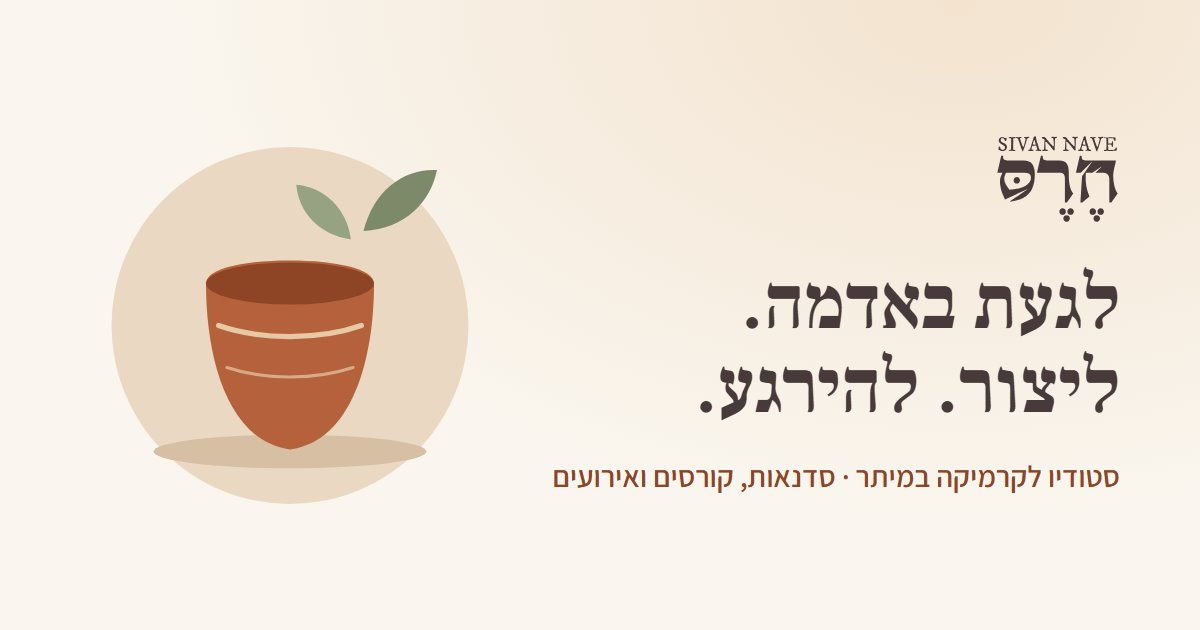
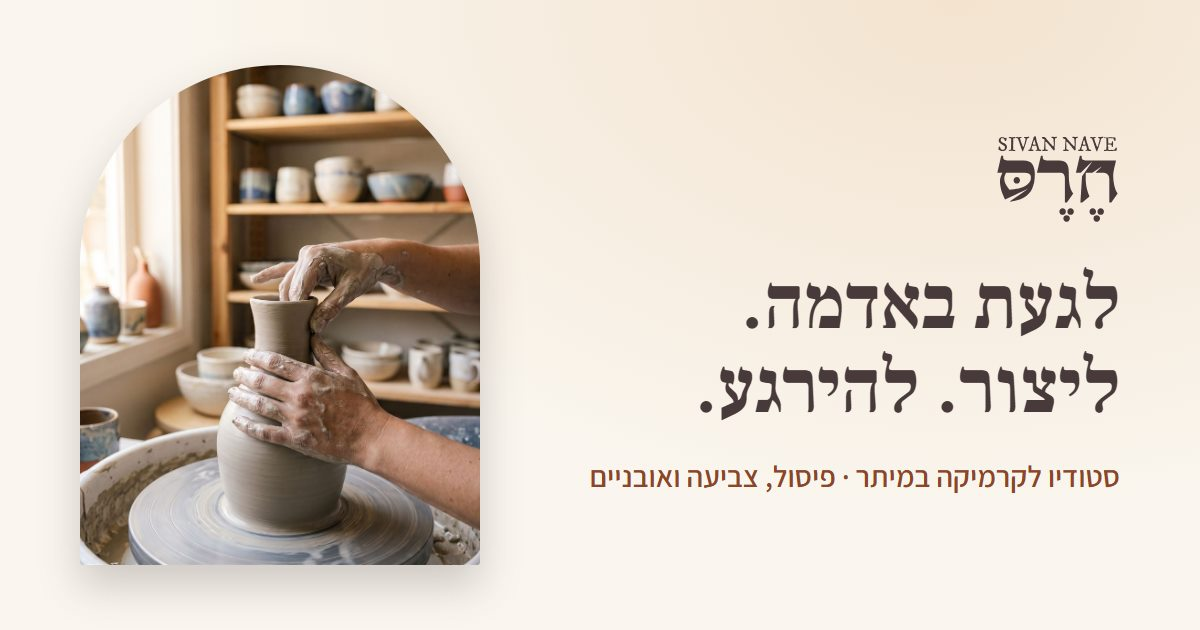
Real work in the gallery, photo hero and texts based on Sivan's Instagram
- Hero: studio photo on the wheel in an arch frame
- Gallery: her real pieces (hamsas, mugs, dog figurine, wheel bowl, flower plate, painting workshop)
  recreated as clean product shots with Google AI Studio from her Instagram posts
- Texts: sculpting and painting studio, wheel work, sculpt and paint in one session
- Removed the second Instagram account, the profile no longer exists
- Images are plain <img> now (no 404 probing, no flash of drawings)
- Share image uses the new hero photo

Changed region(s): [[0.0617, 0.0905, 0.4008, 0.9349], [0.4625, 0.7238, 0.7092, 0.7841]]

diff --git a/index.html b/index.html
@@ -4,7 +4,7 @@
 <meta charset="utf-8">
 <meta name="viewport" content="width=device-width, initial-scale=1">
 <title>סיוון נווה | סטודיו לקרמיקה במיתר</title>
-<meta name="description" content="סטודיו לקרמיקה של סיוון נווה במיתר: סדנאות למתחילים, קורסים מעמיקים, ימי הולדת וגיבוש. לגעת באדמה, ליצור, להירגע.">
+<meta name="description" content="סטודיו לקרמיקה של סיוון נווה במיתר: סדנאות פיסול וצביעה למתחילים, אובניים, קורסים מעמיקים, ימי הולדת וגיבוש. לגעת באדמה, ליצור, להירגע.">
 <meta property="og:title" content="סיוון נווה | סטודיו לקרמיקה במיתר">
 <meta property="og:description" content="סדנאות, קורסים ואירועים בחומר. לגעת באדמה, ליצור, להירגע.">
 <meta property="og:locale" content="he_IL">
@@ -29,7 +29,7 @@
   "description": "סטודיו לקרמיקה במיתר: סדנאות למתחילים, קורסים מעמיקים, ימי הולדת וגיבוש.",
   "telephone": "+972-50-980-9049",
   "address": { "@type": "PostalAddress", "streetAddress": "צקלג 13", "addressLocality": "מיתר", "addressCountry": "IL" },
-  "sameAs": ["https://www.instagram.com/clay_by_sivan/", "https://www.instagram.com/ceramics.by.sivan.nave/"]
+  "sameAs": ["https://www.instagram.com/clay_by_sivan/"]
 }
 </script>
 <script type="application/ld+json">
@@ -108,25 +108,16 @@
   <section class="hero">
     <div class="wrap hero-grid">
       <div>
-        <p class="eyebrow">סטודיו לפיסול וציור בחומר · מיתר</p>
+        <p class="eyebrow">סטודיו לפיסול וצביעה בחומר · מיתר</p>
         <h1>לגעת באדמה.<br>ליצור. להירגע.</h1>
-        <p class="lead">בסטודיו הקטן שלי במיתר אפשר לפגוש את החומר בפעם הראשונה, להעמיק בטכניקות, או לחגוג יחד ולצאת עם כלי שעשיתם בעצמכם.</p>
+        <p class="lead">בסטודיו שלי במיתר מפסלים, צובעים ועובדים על האובניים. אפשר לפגוש את החומר בפעם הראשונה, להעמיק בטכניקות, או לחגוג יחד ולצאת עם כלי שעשיתם בעצמכם.</p>
         <div class="actions">
           <a class="btn" data-wa="היי סיוון, אשמח לקבוע סדנה בסטודיו" href="#contact">לקביעת סדנה</a>
           <a class="btn btn-ghost" href="#workshops">מה יש בסטודיו</a>
         </div>
       </div>
-      <figure class="hero-art photo-slot" data-photo="images/hero.jpg" role="img" aria-label="כלי קרמיקה בעבודת יד">
-        <svg viewBox="0 0 400 400" role="img" aria-hidden="true">
-          <circle cx="200" cy="210" r="170" fill="#ead8c3"/>
-          <ellipse cx="200" cy="330" rx="130" ry="16" fill="#d7bfa4"/>
-          <path d="M120 170c0-14 36-22 80-22s80 8 80 22c0 70-20 150-80 158-60-8-80-88-80-158z" fill="#b5623c"/>
-          <ellipse cx="200" cy="170" rx="80" ry="20" fill="#8e4526"/>
-          <path d="M132 210c40 14 96 14 136 0" stroke="#e8c9a6" stroke-width="5" fill="none" stroke-linecap="round"/>
-          <path d="M140 250c36 12 84 12 120 0" stroke="#e8c9a6" stroke-width="3" fill="none" stroke-linecap="round" opacity=".7"/>
-          <path d="M270 120c10-40 40-60 70-58-6 30-30 56-70 58z" fill="#7d8a6a"/>
-          <path d="M258 128c-4-30-26-50-52-52 2 26 22 48 52 52z" fill="#96a383"/>
-        </svg>
+      <figure class="hero-art">
+        <img src="images/hero.jpg" alt="ידיים מעצבות כד על האובניים בסטודיו" width="880" height="1093" fetchpriority="high">
       </figure>
     </div>
   </section>
@@ -139,8 +130,8 @@
       <div>
         <p class="eyebrow">נעים להכיר</p>
         <h2>אני סיוון</h2>
-        <p>אמנית וקדרית, יוצרת מחומר בסטודיו לפיסול וציור במיתר. אני אוהבת את מה שקורה כשהידיים נוגעות באדמה: הראש משתחרר, הזמן מאט, ומשהו חדש מקבל צורה.</p>
-        <p>הטבע, הצמחים ובעלי החיים שמסביבי נכנסים לכל כלי שאני יוצרת: קערות, ספלים, כדים ועציצים לצמחים ולקקטוסים. בסטודיו אני מלמדת את מה שאני הכי אוהבת, בקצב של כל אחד ואחת, בלי צורך בניסיון קודם.</p>
+        <p>אמנית וקדרית, יוצרת מחימר בסטודיו לפיסול וצביעה במיתר. אני אוהבת את מה שקורה כשהידיים נוגעות באדמה: הראש משתחרר, הזמן מאט, ומשהו חדש מקבל צורה.</p>
+        <p>הטבע, הצמחים ובעלי החיים שמסביבי נכנסים לכל מה שאני יוצרת: קערות וספלים מהאובניים, כדים ועציצים, צלחות בצורת פרחים, חמסות עם הטבעות עלים ופסלונים של בעלי חיים. בסטודיו אני מלמדת את מה שאני הכי אוהבת, בקצב של כל אחד ואחת, בלי צורך בניסיון קודם.</p>
         <p class="sign">מחכה לראות אתכם בסטודיו,<br><b>סיוון</b></p>
       </div>
     </div>
@@ -154,7 +145,7 @@
         <article id="workshops" class="card">
           <svg class="card-icon" viewBox="0 0 64 64" aria-hidden="true"><path d="M14 26h36c0 16-8 26-18 26S14 42 14 26z" fill="#b5623c"/><ellipse cx="32" cy="26" rx="18" ry="5" fill="#8e4526"/></svg>
           <h3>סדנה למתחילים</h3>
-          <p>היכרות נעימה ורגועה עם עולם החומר. לומדים טכניקות בסיס של עבודה בידיים, יוצרים כלי ראשון ויוצאים עם הרבה סיפוק.</p>
+          <p>היכרות נעימה ורגועה עם עולם החומר. מפסלים וצובעים באותו מפגש, מנסים את האובניים ויוצאים עם כלי ראשון ועם הרבה סיפוק.</p>
           <ul>
             <li>בלי צורך בניסיון קודם</li>
             <li>כל החומרים והכלים כלולים</li>
@@ -168,6 +159,7 @@
           <h3>קורס מעמיק</h3>
           <p>לימוד מקצועי ויסודי לאורך מספר מפגשים, עם ליווי אישי לכל משתתף ומשתתפת.</p>
           <ul>
+            <li>עבודה על האובניים</li>
             <li>בנייה בידיים ופיסול מתקדם</li>
             <li>עבודה עם זיגוגים</li>
             <li>תהליכי שריפה בתנור</li>
@@ -195,14 +187,14 @@
     <div class="wrap">
       <p class="eyebrow center">מהסטודיו</p>
       <h2 class="center">עבודות בעבודת יד</h2>
-      <p class="center muted">קערות, ספלים, כדים ועציצים. כל כלי יחיד במינו.</p>
+      <p class="center muted">כלים, חמסות ופסלונים שנוצרו בסטודיו. כל פריט יחיד במינו.</p>
       <div class="grid">
-        <figure class="tile photo-slot" data-photo="images/work-1.jpg"><svg viewBox="0 0 200 200" aria-hidden="true"><rect width="200" height="200" fill="#efe2d1"/><path d="M40 90h120c0 50-26 76-60 76S40 140 40 90z" fill="#b5623c"/><ellipse cx="100" cy="90" rx="60" ry="14" fill="#8e4526"/></svg><figcaption>קערה</figcaption></figure>
-        <figure class="tile photo-slot" data-photo="images/work-2.jpg"><svg viewBox="0 0 200 200" aria-hidden="true"><rect width="200" height="200" fill="#e7dccb"/><path d="M62 70h64v70c0 16-14 26-32 26s-32-10-32-26z" fill="#7d8a6a"/><path d="M126 88c24 0 24 40 0 40" stroke="#5f6b50" stroke-width="8" fill="none"/></svg><figcaption>ספל</figcaption></figure>
-        <figure class="tile photo-slot" data-photo="images/work-3.jpg"><svg viewBox="0 0 200 200" aria-hidden="true"><rect width="200" height="200" fill="#f1e6d6"/><path d="M84 40h32v20c24 12 34 34 34 56 0 30-22 50-50 50s-50-20-50-50c0-22 10-44 34-56z" fill="#c98a63"/><path d="M60 120c26 10 54 10 80 0" stroke="#f4e9da" stroke-width="4" fill="none"/></svg><figcaption>כד</figcaption></figure>
-        <figure class="tile photo-slot" data-photo="images/work-4.jpg"><svg viewBox="0 0 200 200" aria-hidden="true"><rect width="200" height="200" fill="#e9dccb"/><path d="M56 110h88l-10 56H66z" fill="#b5623c"/><path d="M100 110V60M100 80c-16-6-26-18-26-30 16 2 26 12 26 30zM100 72c14-8 24-20 24-32-14 4-24 16-24 32z" stroke="#5f6b50" stroke-width="6" fill="#7d8a6a"/></svg><figcaption>עציץ לקקטוס</figcaption></figure>
-        <figure class="tile photo-slot" data-photo="images/work-5.jpg"><svg viewBox="0 0 200 200" aria-hidden="true"><rect width="200" height="200" fill="#efe2d1"/><ellipse cx="100" cy="120" rx="70" ry="30" fill="#8e4526"/><ellipse cx="100" cy="112" rx="64" ry="22" fill="#d9a77f"/></svg><figcaption>צלחת</figcaption></figure>
-        <figure class="tile photo-slot" data-photo="images/work-6.jpg"><svg viewBox="0 0 200 200" aria-hidden="true"><rect width="200" height="200" fill="#e7dccb"/><rect x="92" y="150" width="16" height="30" fill="#6d625a"/><ellipse cx="100" cy="150" rx="74" ry="14" fill="#8e4526"/><ellipse cx="100" cy="146" rx="74" ry="14" fill="#c98a63"/><path d="M76 146c-6-20 0-44 14-56h20c14 12 20 36 14 56z" fill="#b5623c"/><ellipse cx="100" cy="90" rx="10" ry="3" fill="#8e4526"/><path d="M40 112c14-10 30-10 38 2M160 112c-14-10-30-10-38 2" stroke="#d9a77f" stroke-width="12" fill="none" stroke-linecap="round"/></svg><figcaption>סדנה בפעולה</figcaption></figure>
+        <figure class="tile"><img src="images/work-1.jpg" alt="חמסות עם הטבעת עלים" width="720" height="720" loading="lazy"><figcaption>חמסות עם הטבעת עלים</figcaption></figure>
+        <figure class="tile"><img src="images/work-2.jpg" alt="ספלים בזיגוג עבודת יד" width="720" height="720" loading="lazy"><figcaption>ספלים בזיגוג עבודת יד</figcaption></figure>
+        <figure class="tile"><img src="images/work-3.jpg" alt="פסלון כלב" width="720" height="720" loading="lazy"><figcaption>פסלון כלב</figcaption></figure>
+        <figure class="tile"><img src="images/work-4.jpg" alt="קערה מהאובניים" width="720" height="720" loading="lazy"><figcaption>קערה מהאובניים</figcaption></figure>
+        <figure class="tile"><img src="images/work-5.jpg" alt="צלחת פרח" width="720" height="720" loading="lazy"><figcaption>צלחת פרח</figcaption></figure>
+        <figure class="tile"><img src="images/work-6.jpg" alt="סדנת צביעה" width="720" height="720" loading="lazy"><figcaption>סדנת צביעה</figcaption></figure>
       </div>
       <p class="center"><a class="text-link" href="https://www.instagram.com/clay_by_sivan/" target="_blank" rel="noopener">עוד עבודות באינסטגרם <bdi dir="ltr">@clay_by_sivan</bdi></a></p>
     </div>
@@ -235,7 +227,6 @@
         <li><span>ניווט</span><a href="https://waze.com/ul?q=%D7%A6%D7%A7%D7%9C%D7%92%2013%20%D7%9E%D7%99%D7%AA%D7%A8&amp;navigate=yes" target="_blank" rel="noopener">פתיחה ב-Waze</a></li>
         <li><span>טלפון</span><a href="tel:+972509809049">050-9809049</a></li>
         <li><span>אינסטגרם</span><a href="https://www.instagram.com/clay_by_sivan/" target="_blank" rel="noopener"><bdi dir="ltr">@clay_by_sivan</bdi></a></li>
-        <li><span>אינסטגרם</span><a href="https://www.instagram.com/ceramics.by.sivan.nave/" target="_blank" rel="noopener"><bdi dir="ltr">@ceramics.by.sivan.nave</bdi></a></li>
       </ul>
     </div>
   </section>

diff --git a/styles.css b/styles.css
@@ -63,7 +63,11 @@ nav a[aria-current] { text-decoration: underline; text-decoration-thickness: 2px
 .hero { padding: 64px 0 88px; background: radial-gradient(ellipse at 20% 0%, #f3e3cf 0, transparent 60%), var(--cream); }
 .hero-grid { display: grid; grid-template-columns: 1.1fr .9fr; gap: 48px; align-items: center; }
 .hero-art { margin: 0; }
-.hero-art svg, .hero-art img { width: 100%; height: auto; border-radius: 50%; }
+.hero-art { position: relative; isolation: isolate; max-width: 440px; justify-self: center; }
+.hero-art img { width: 100%; height: auto; aspect-ratio: 4 / 5; object-fit: cover; border-radius: 999px 999px var(--radius) var(--radius);
+                box-shadow: 0 24px 50px rgba(72, 58, 58, .2); }
+.hero-art::before { content: ""; position: absolute; inset: 7% -6% -5% 8%; border-radius: 999px 999px var(--radius) var(--radius);
+                    background: #ead8c3; z-index: -1; }
 
 /* about */
 .about { padding: 88px 0; background: var(--sand); }
@@ -88,7 +92,8 @@ nav a[aria-current] { text-decoration: underline; text-decoration-thickness: 2px
 .gallery { padding: 96px 0; background: var(--sand); }
 .grid { display: grid; grid-template-columns: repeat(3, 1fr); gap: 18px; margin: 36px 0 24px; }
 .tile { margin: 0; position: relative; border-radius: var(--radius); overflow: hidden; aspect-ratio: 1; background: #efe2d1; }
-.tile svg, .tile img { width: 100%; height: 100%; object-fit: cover; }
+.tile img { width: 100%; height: 100%; object-fit: cover; transition: transform .5s ease; }
+.tile:hover img { transform: scale(1.04); }
 .tile figcaption { position: absolute; inset-inline-start: 12px; bottom: 12px; background: rgba(250, 246, 239, .92); padding: 2px 12px;
                    border-radius: 999px; font-size: 15px; font-weight: 600; }
 
@@ -137,7 +142,7 @@ details p { color: var(--muted); margin: 10px 0 0; }
   nav a[aria-current] { text-decoration: none; }
   .hero { padding: 36px 0 56px; }
   .hero-grid, .about-grid, .contact-grid { grid-template-columns: 1fr; gap: 32px; }
-  .hero-art { max-width: 200px; margin-inline: auto; order: -1; }
+  .hero-art { max-width: 220px; margin-inline: auto; order: -1; }
   .portrait { max-width: 240px; margin-inline: auto; }
   .cards { grid-template-columns: 1fr; }
   .grid { grid-template-columns: repeat(2, 1fr); gap: 12px; }

diff --git a/site.js b/site.js
@@ -23,16 +23,6 @@ document.querySelectorAll("[data-wa]").forEach(el => {
   el.rel = "noopener";
 });
 
-// Photos: drop a file with the name in data-photo into images/ and it replaces the drawing.
-document.querySelectorAll(".photo-slot[data-photo]").forEach(slot => {
-  const img = new Image();
-  img.onload = () => {
-    img.alt = slot.getAttribute("aria-label") || slot.querySelector("figcaption")?.textContent || "";
-    slot.querySelector("svg")?.replaceWith(img);
-  };
-  img.src = slot.dataset.photo;
-});
-
 document.getElementById("year").textContent = new Date().getFullYear();
 
 // Mobile menu: the button opens and closes the navigation.

diff --git a/README.md b/README.md
@@ -14,8 +14,11 @@ Then open http://127.0.0.1:8780
 ## Easy edits
 
 - **Prices:** open `site.js` and fill in `PRICES`. `null` shows "מחיר לפי בקשה" (price on request).
-- **Photos of her work:** save photos into `images/` with these names and they replace the drawings
-  automatically: `hero.jpg` (top of the page), `work-1.jpg` to `work-6.jpg` (gallery, square works best).
+- **Photos:** `images/hero.jpg` (top of the page) and `images/work-1.jpg` to `work-6.jpg` (gallery, square).
+  To swap one, save a new photo under the same name. The captions are in `index.html`.
+  The current gallery photos were made with Google AI Studio from Sivan's Instagram posts: each one recreates a
+  real piece of hers (hamsas, mugs, dog figurine, bowl, flower plate) as a clean product shot. The hero photo is a
+  generated studio scene. Replace any of them with real photos whenever you have good ones.
 - **Sivan's photo:** `images/sivan.jpg`.
 - **Texts:** all texts are in `index.html`.
 - **WhatsApp number:** `WHATSAPP` in `site.js`.
